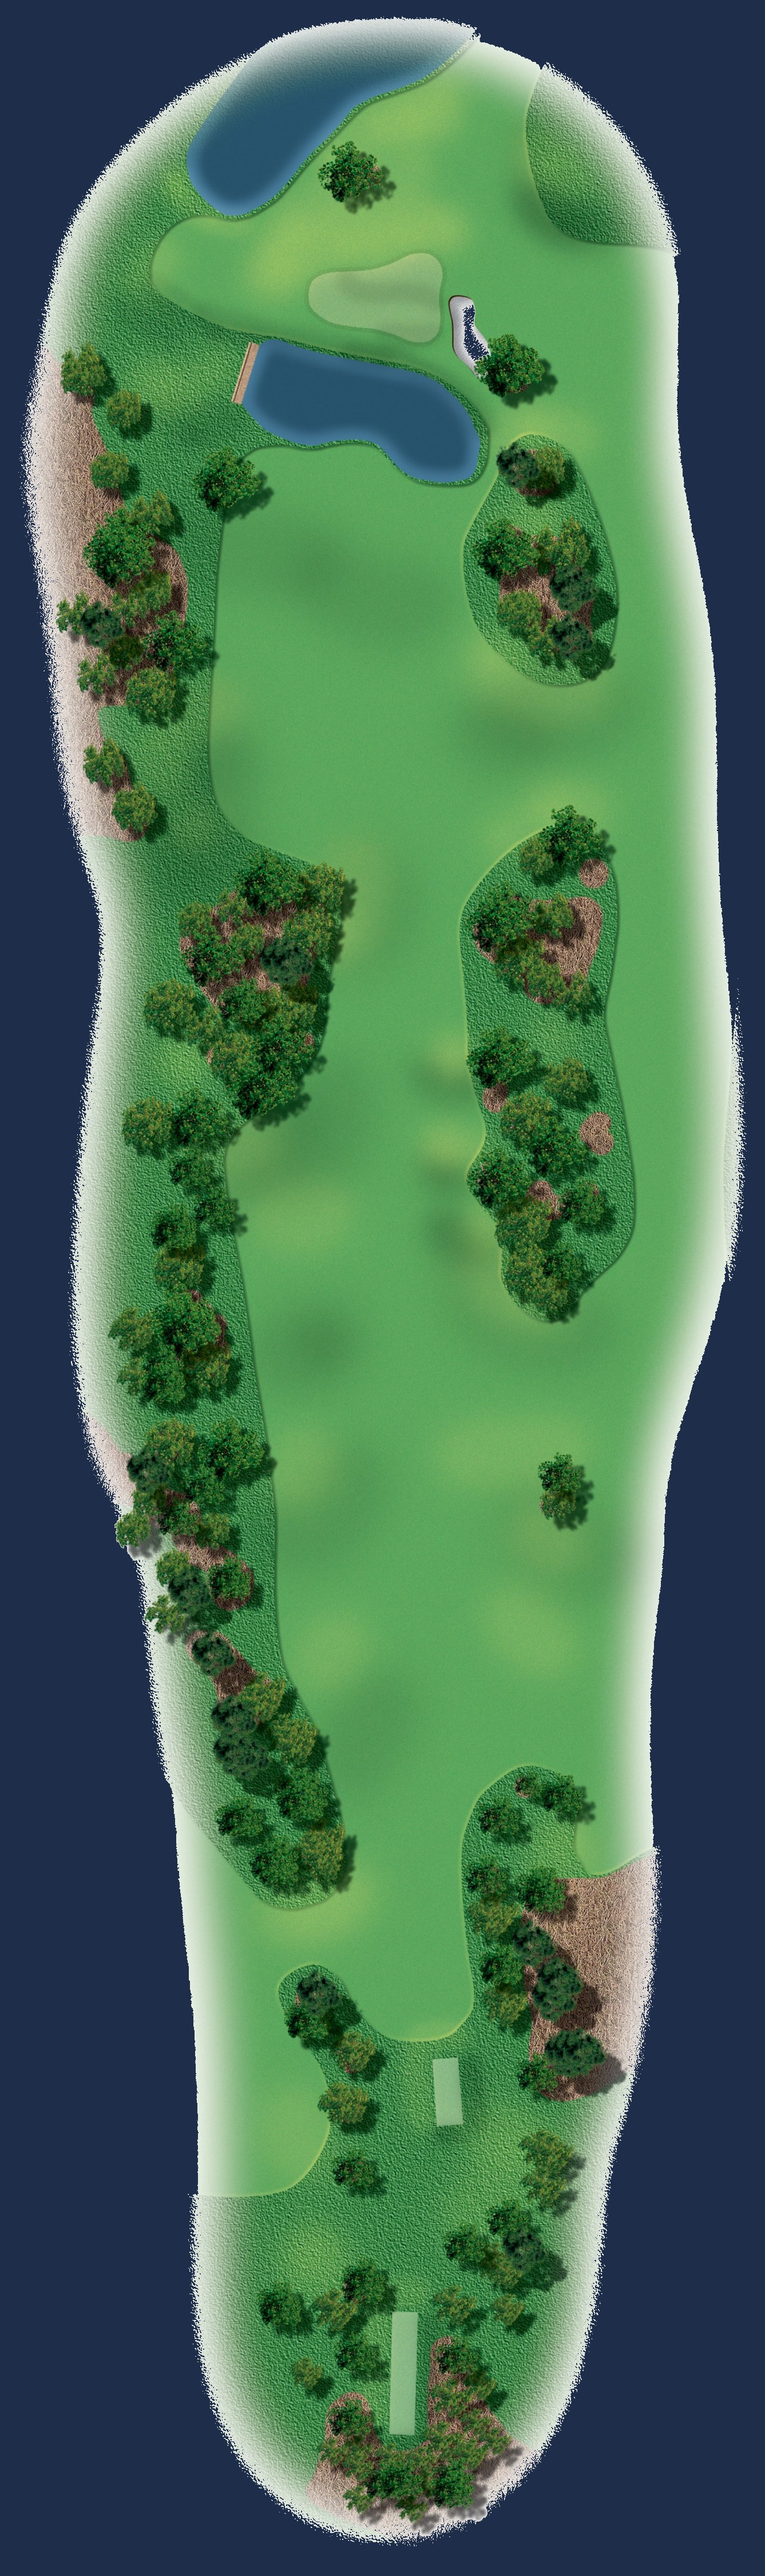
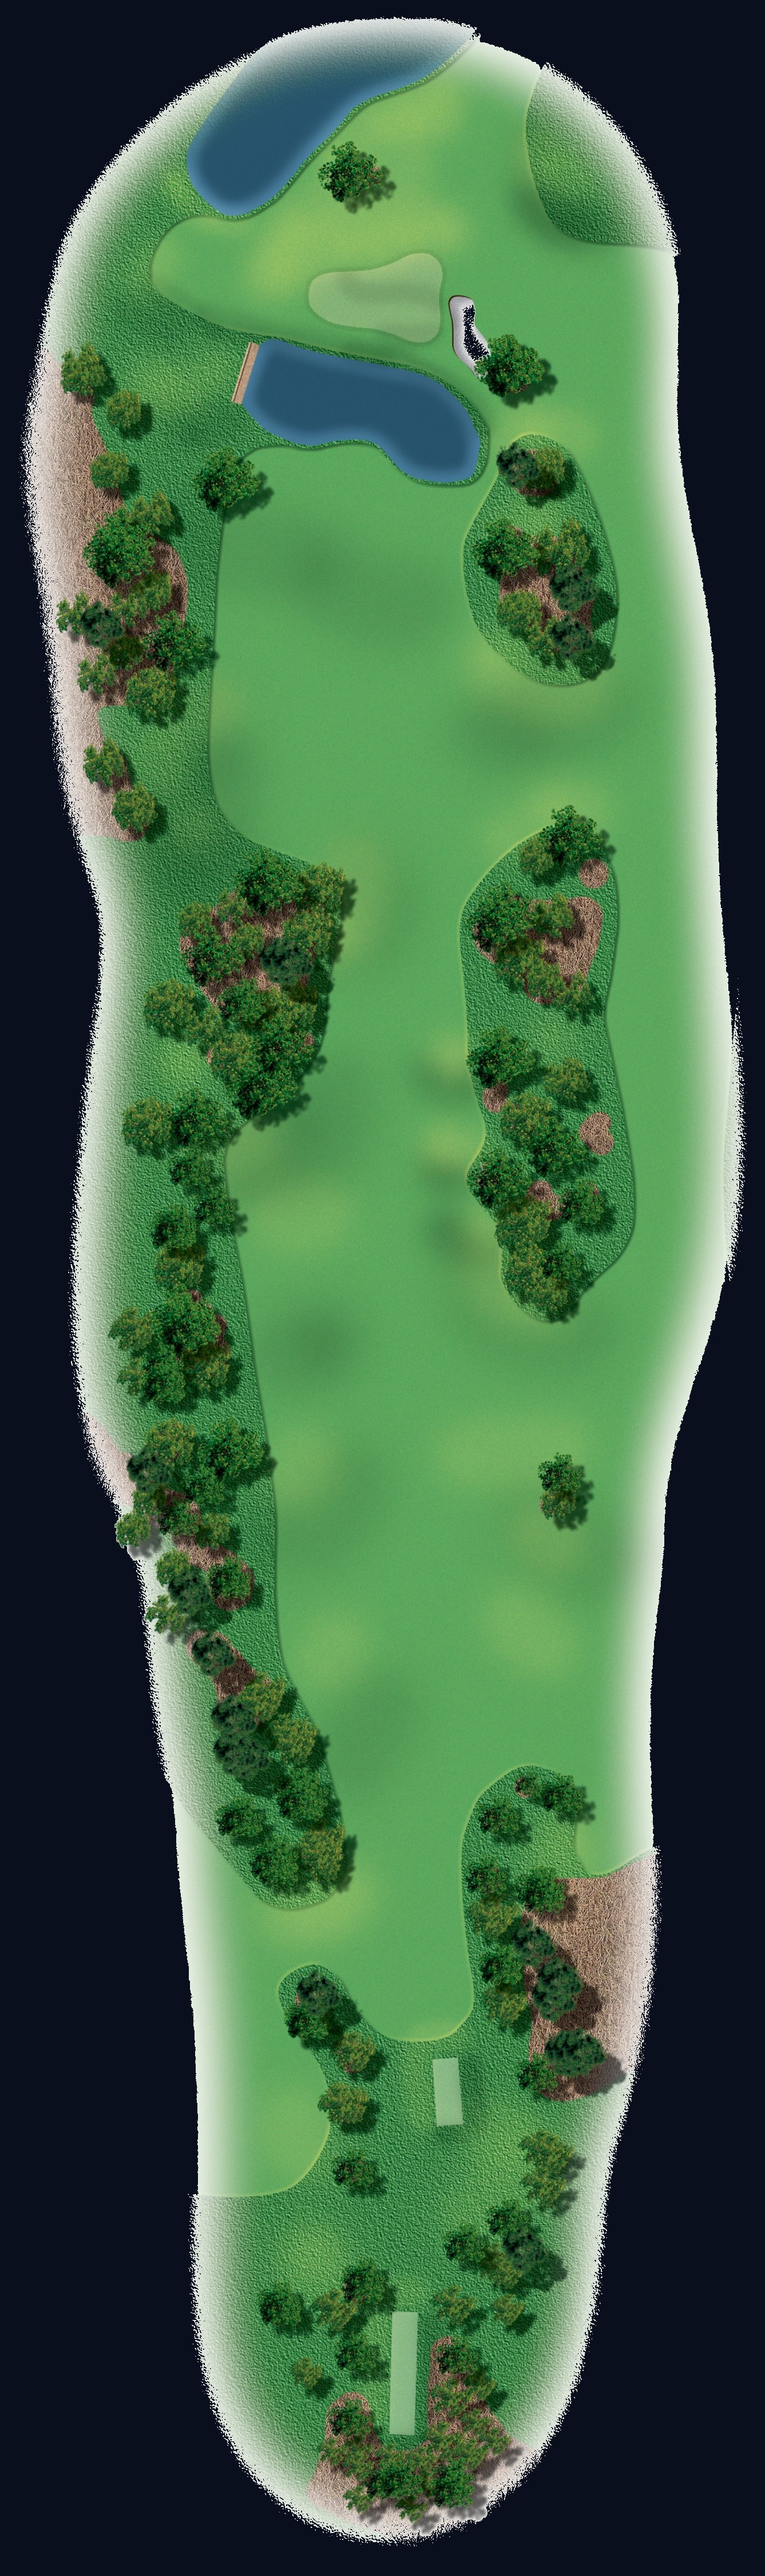
Fix Augusta hole clipping and background colour
- Widen SVG viewBox to -20 0 140 260 for real-course images so slice
  clips width instead of height — flag and ball no longer cut off
- Re-fill Augusta image transparent areas with #0a0f1e (app background)
  instead of the lighter #1e2d4a

diff --git a/components/FootballGolf.tsx b/components/FootballGolf.tsx
@@ -2194,7 +2194,8 @@ function CourseView({hole,displayBallPos,preAnimBallPos,arcOffset,isAnimating,st
       {/* Minimal scrim — just enough to keep labels readable without darkening bunkers */}
       {imageUrl && <div style={{position:'absolute',inset:0,background:'rgba(0,0,0,0.05)',pointerEvents:'none'}}/>}
 
-      <svg width="100%" viewBox={imageUrl ? "0 0 100 260" : "0 -10 100 165"} preserveAspectRatio="xMidYMid slice" style={{display:'block',flex:1,position:'relative'}}>
+      {/* For real-course images, widen the viewBox so slice clips width not height — prevents flag/ball from being cut off on wide cards */}
+      <svg width="100%" viewBox={imageUrl ? "-20 0 140 260" : "0 -10 100 165"} preserveAspectRatio="xMidYMid slice" style={{display:'block',flex:1,position:'relative'}}>
         <defs>
           <linearGradient id="fairway" x1="0" y1="35" x2="0" y2="255" gradientUnits="userSpaceOnUse">
             <stop offset="0%" stopColor="#1a4a1a"/>
